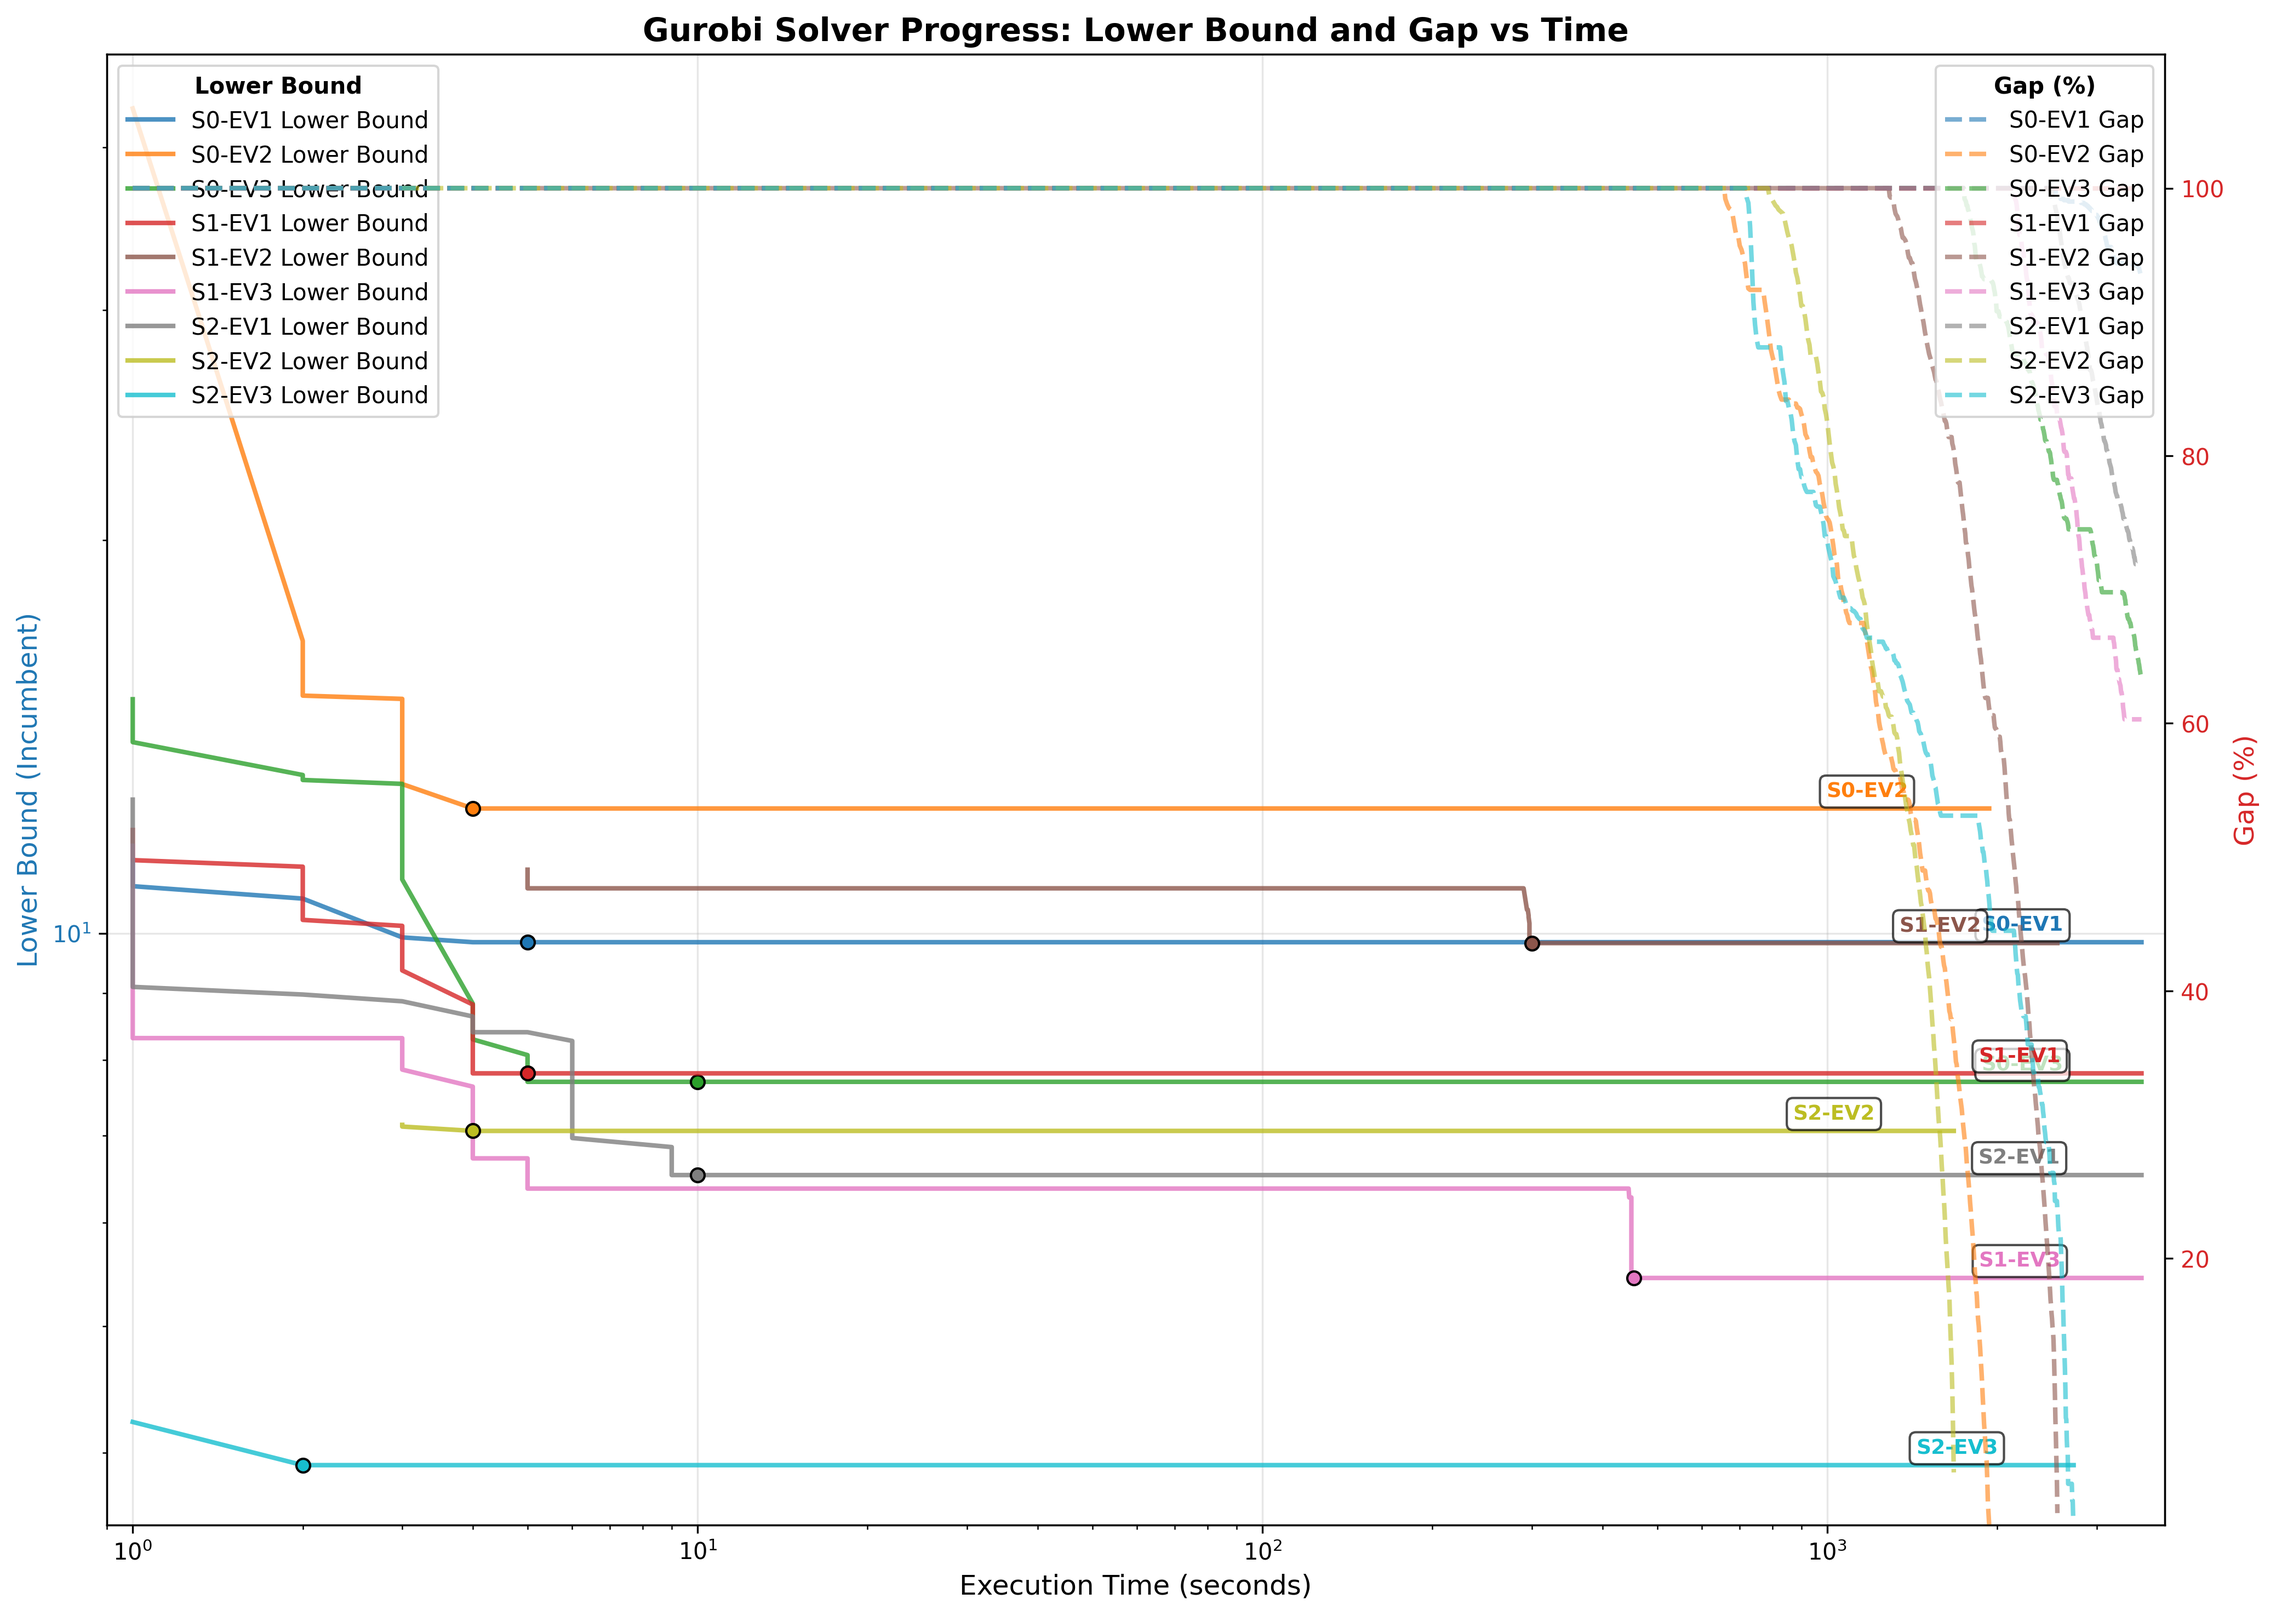
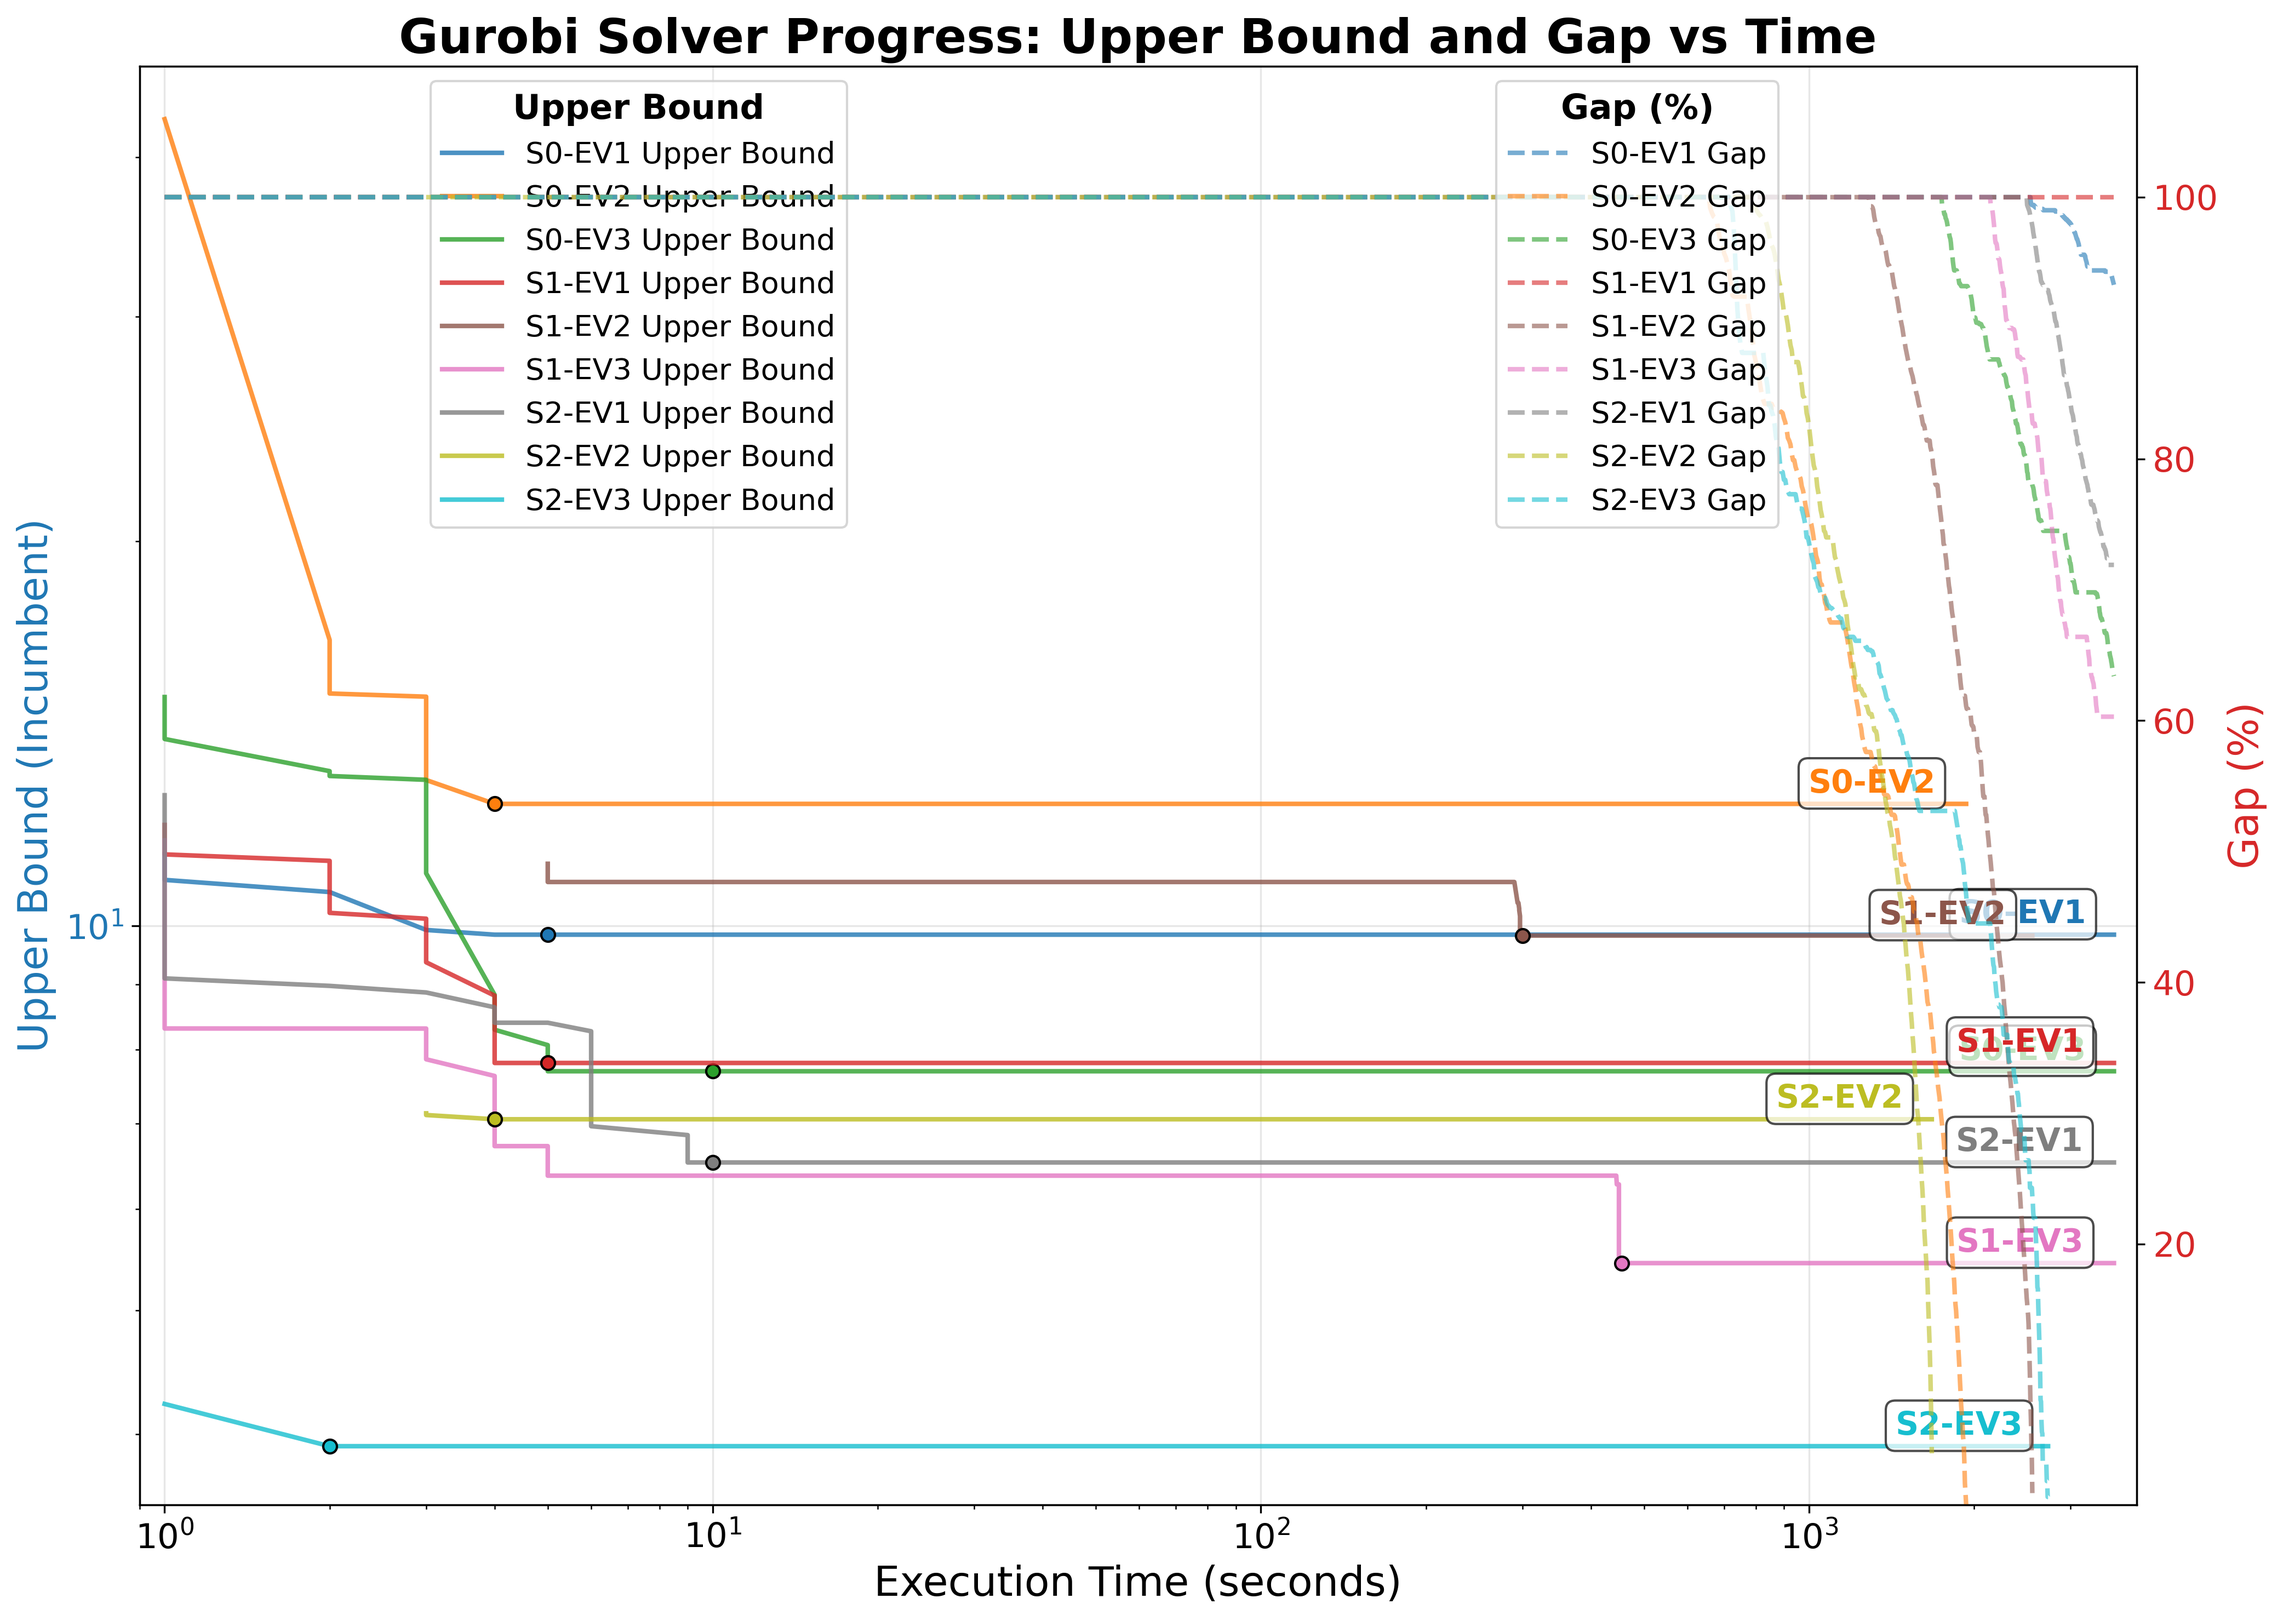
Improved incumbent vs execution time visualization

Changed region(s): [[0.0, 0.0, 0.9937, 0.998], [0.0621, 0.9356, 0.0932, 0.9668]]

diff --git a/scripts/parse_gurobi_output.py b/scripts/parse_gurobi_output.py
@@ -179,17 +179,17 @@ def create_analysis_plot(input_file: str, output_file: str,
             print(f"Warning: No valid data for Scenario {scenario}, EV {ev} after filtering for log scale")
             continue
         
-        # Plot lower bound on primary y-axis
-        label_incumbent = f'S{scenario}-EV{ev} Lower Bound'
+        # Plot upper bound on primary y-axis
+        label_incumbent = f'S{scenario}-EV{ev} Upper Bound'
         ax1.plot(time_filtered, incumbent_filtered, color=color, linewidth=2, 
                 label=label_incumbent, linestyle='-', alpha=0.8)
         
-        # Find the point with the best (lowest) lower bound for this section
+        # Find the point with the best (lowest) upper bound for this section
         best_bound_idx = np.argmin(incumbent_filtered)
         best_bound_value = incumbent_filtered[best_bound_idx]
         best_bound_time = time_filtered[best_bound_idx]
         
-        # Mark the best lower bound point
+        # Mark the best upper bound point
         ax1.plot(best_bound_time, best_bound_value, 'o', color=color, markersize=6, 
                 markeredgecolor='black', markeredgewidth=1)
         
@@ -198,7 +198,7 @@ def create_analysis_plot(input_file: str, output_file: str,
         ax1.annotate(f'S{scenario}-EV{ev}', 
                     xy=(time_filtered[mid_idx], incumbent_filtered[mid_idx]),
                     xytext=(5, 5), textcoords='offset points',
-                    fontsize=9, color=color, fontweight='bold',
+                    fontsize=14, color=color, fontweight='bold',
                     bbox=dict(boxstyle='round,pad=0.3', facecolor='white', alpha=0.7))
         
         # Collect data for axis limits
@@ -206,10 +206,11 @@ def create_analysis_plot(input_file: str, output_file: str,
         all_time_values.extend(time_filtered)
         all_gap_values.extend(gap_filtered)
     
-    # Set up primary y-axis (lower bound) with log scale
-    ax1.set_xlabel('Execution Time (seconds)', fontsize=12)
-    ax1.set_ylabel('Lower Bound (Incumbent)', color='tab:blue', fontsize=12)
-    ax1.tick_params(axis='y', labelcolor='tab:blue')
+    # Set up primary y-axis (upper bound) with log scale
+    ax1.set_xlabel('Execution Time (seconds)', fontsize=18)
+    ax1.set_ylabel('Upper Bound (Incumbent)', color='tab:blue', fontsize=18)
+    ax1.tick_params(axis='y', labelcolor='tab:blue', labelsize=15)
+    ax1.tick_params(axis='x', labelsize=15)
     ax1.grid(True, alpha=0.3)
     
     # Set log scales
@@ -240,8 +241,8 @@ def create_analysis_plot(input_file: str, output_file: str,
         ax2.plot(time_filtered, gap_filtered, color=color, linewidth=2, 
                 label=label_gap, linestyle='--', alpha=0.6)
     
-    ax2.set_ylabel('Gap (%)', color='tab:red', fontsize=12)
-    ax2.tick_params(axis='y', labelcolor='tab:red')
+    ax2.set_ylabel('Gap (%)', color='tab:red', fontsize=18)
+    ax2.tick_params(axis='y', labelcolor='tab:red', labelsize=15)
     
     # Set axis limits with some padding
     if all_time_values and all_incumbent_values:
@@ -258,8 +259,8 @@ def create_analysis_plot(input_file: str, output_file: str,
     if evs_filter is not None:
         filter_info += f" (EVs: {evs_filter})"
     
-    plt.title(f'Gurobi Solver Progress: Lower Bound and Gap vs Time{filter_info}', 
-              fontsize=14, fontweight='bold')
+    plt.title(f'Gurobi Solver Progress: Upper Bound and Gap vs Time{filter_info}', 
+              fontsize=21, fontweight='bold')
     
     # Create legends
     lines1, labels1 = ax1.get_legend_handles_labels()
@@ -267,12 +268,18 @@ def create_analysis_plot(input_file: str, output_file: str,
     
     # Split legends into two columns if there are many entries
     if len(labels1) + len(labels2) > 6:
-        legend1 = ax1.legend(lines1, labels1, loc='upper left', title='Lower Bound')
-        legend2 = ax2.legend(lines2, labels2, loc='upper right', title='Gap (%)')
+        legend1 = ax1.legend(lines1, labels1, loc='upper center', title='Upper Bound', 
+                            bbox_to_anchor=(0.25, 1.0), fontsize=13)
+        legend2 = ax2.legend(lines2, labels2, loc='upper center', title='Gap (%)', 
+                            bbox_to_anchor=(0.75, 1.0), fontsize=13)
         legend1.get_title().set_fontweight('bold')
+        legend1.get_title().set_fontsize(15)
         legend2.get_title().set_fontweight('bold')
+        legend2.get_title().set_fontsize(15)
     else:
-        ax1.legend(lines1 + lines2, labels1 + labels2, loc='best')
+        legend = ax1.legend(lines1 + lines2, labels1 + labels2, loc='upper center', 
+                           bbox_to_anchor=(0.5, 1.0), fontsize=13)
+        legend.get_title().set_fontsize(15)
     
     # Improve layout
     plt.tight_layout()
